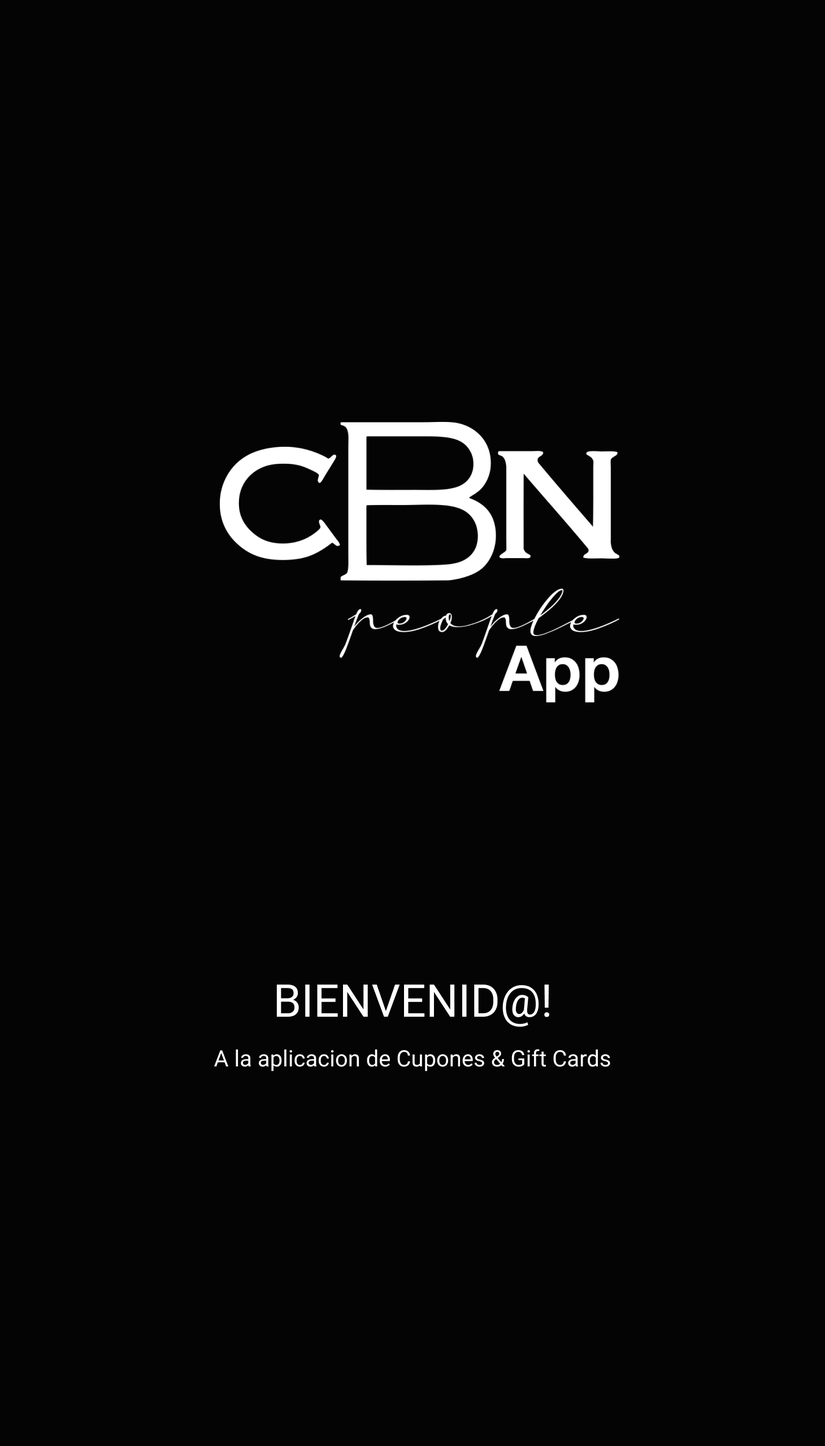
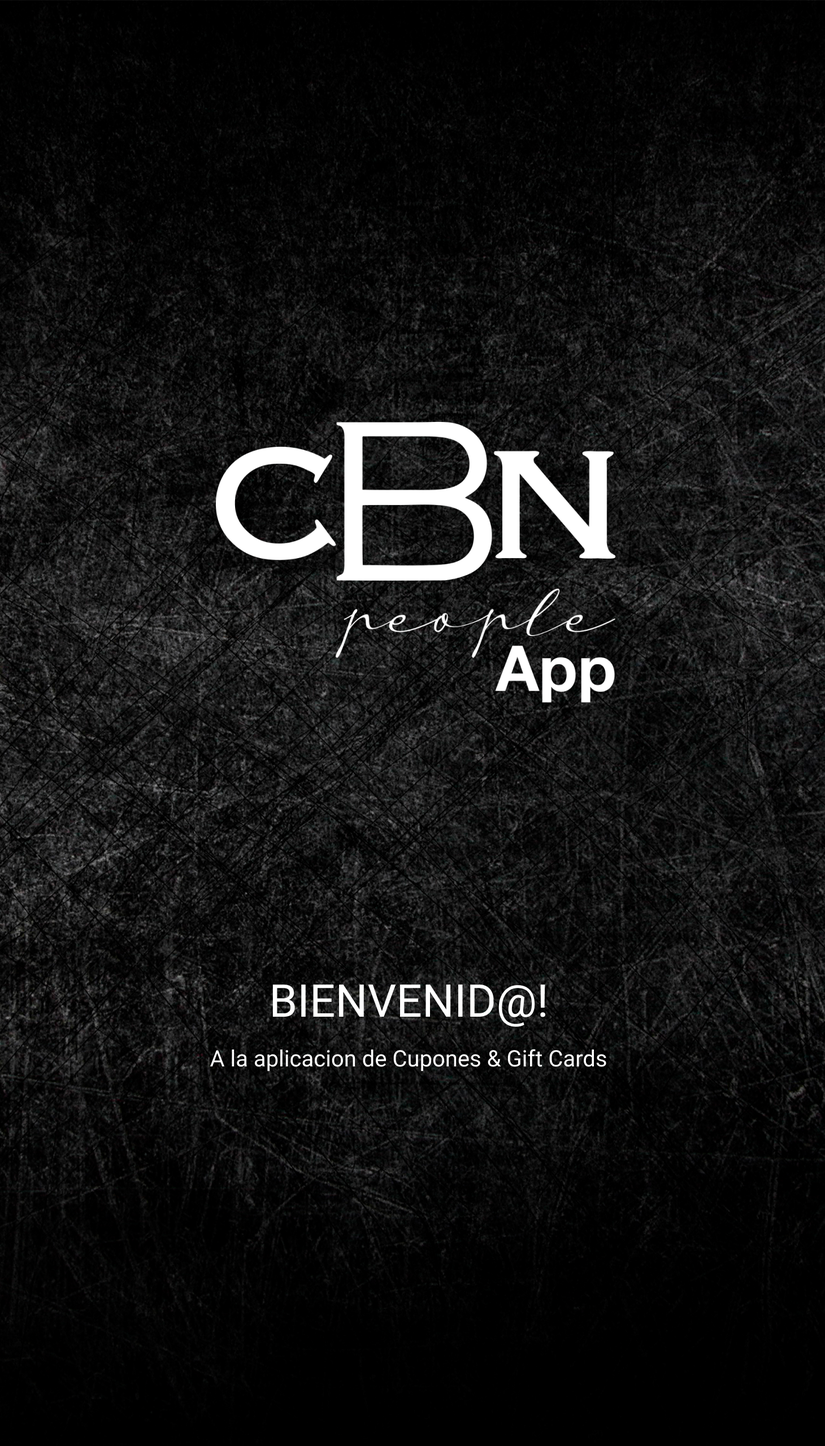
se agrego la fotografia en el registro y los fondos de pantallas

diff --git a/lib/screens/register_page2_screen.dart b/lib/screens/register_page2_screen.dart
@@ -1,6 +1,11 @@
+
+import 'package:cbn/providers/providers.dart';
 import 'package:cbn/utils/constantes.dart';
+import 'package:cbn/widgets/fondo_pantalla.dart';
 import 'package:flutter/material.dart';
 import 'package:intl/intl.dart';
+import 'package:image_picker/image_picker.dart';
+import 'package:provider/provider.dart';
 
 class RegisterPage2Screen extends StatelessWidget {
 
@@ -17,11 +22,16 @@ class RegisterPage2Screen extends StatelessWidget {
         appBar: AppBar(),
         body: SafeArea(
           child: SingleChildScrollView(
-            child: Column(
+            child: Stack(
               children: [
-                _Info(),
-                SizedBox(height: 40,),
-                _Formulario(formState: formState,),
+                FondoPantalla(img: 'fondoblanco.png'),
+                Column(
+                  children: [
+                    _Info(),
+                    SizedBox(height: 40,),
+                    _Formulario(formState: formState,),
+                  ],
+                ),
               ],
             ),
           ),
@@ -56,12 +66,15 @@ class _Formulario extends StatelessWidget {
 
   @override
   Widget build(BuildContext context) {
+    
     return Padding(
       padding: const EdgeInsets.symmetric(horizontal: 20),
       child: Form(
         key: this.formState,
         child: Column(
           children: [
+            estilos.inputLabel(label: 'Foto de perfil'),
+            _FotoPerfil(),
             estilos.inputLabel(label: 'Fecha de nacimiento', obligatorio: true),
             _FechaNacimiento(),
             estilos.inputLabel(label: 'Telefono / Celular', obligatorio: true),
@@ -87,6 +100,55 @@ class _Formulario extends StatelessWidget {
             )
           ],
         ),
+      ),
+    );
+  }
+}
+
+class _FotoPerfil extends StatelessWidget {
+
+  @override
+  Widget build(BuildContext context) {
+    final size = MediaQuery.of(context).size;
+    final provider = Provider.of<RegistroProvider>(context);
+    return Container(
+      width: 150,
+      height: 150,
+      child: Stack(
+        children: [
+          (provider.foto == null)
+            ? Center(child: Image.asset('assets/icons/logoNegroCBN.png', width: size.width*0.5,))
+            : Center(
+              child: ClipRRect(
+                borderRadius: BorderRadius.circular(200),
+                child: Image.file(provider.foto!,
+                  fit: BoxFit.cover,
+                  width: size.width*0.5,
+                  height: size.width*0.5,
+                ),
+              ),
+            )
+          ,
+          Positioned(
+            bottom: 0,
+            right: 0,
+            child: Center(
+              child: IconButton(
+                icon: Icon(Icons.camera_alt, color: Colors.black, size: size.width*0.13,),
+                onPressed: () async {
+                  final ImagePicker _picker = new ImagePicker();
+                  final XFile? photo = await _picker.pickImage(source: ImageSource.camera);
+                  if (photo == null) {
+                    print('No selecciono nada');
+                    return;
+                  }
+                  print('tenemos imagen ${photo.path}');
+                  provider.updateSelectedFoto(photo.path);
+                },
+              ),
+            ),
+          )
+        ],
       ),
     );
   }

diff --git a/lib/screens/recover_password_screen.dart b/lib/screens/recover_password_screen.dart
@@ -17,15 +17,21 @@ class RecoverPassScreen extends StatelessWidget {
       child: Scaffold(
         appBar: AppBar(),
         body: SafeArea(
-          child: SingleChildScrollView(
-            child: Column(
-              children: [
-                TopLogoWidget(),
-                SizedBox(height: 20,),
-                Text('CONTRASEÑA OLVIDADA', style: TextStyle( fontWeight: FontWeight.bold ),),
-                _Formulario(formState: formState)
-              ],
-            ),
+          child: Stack(
+            children: [
+              FondoPantalla(img: 'fondoblanco.png'),
+              SingleChildScrollView(
+                child: Column(
+                  children: [
+                    TopLogoWidget(),
+                    SizedBox(height: 20,),
+                    Text('CONTRASEÑA OLVIDADA', style: TextStyle( fontWeight: FontWeight.bold ),),
+                    _Formulario(formState: formState)
+                  ],
+                ),
+              ),
+
+            ],
           ),
         ),
       ),

diff --git a/lib/screens/register_validation_screen.dart b/lib/screens/register_validation_screen.dart
@@ -1,4 +1,5 @@
 import 'package:cbn/utils/constantes.dart';
+import 'package:cbn/widgets/fondo_pantalla.dart';
 import 'package:cbn/widgets/top_logo.dart';
 import 'package:flutter/material.dart';
 
@@ -14,15 +15,22 @@ class RegisterValidationScreen extends StatelessWidget {
       },
       child: Scaffold(
         appBar: AppBar(),
-        body: SingleChildScrollView(
-          child: Column(
+        body: SafeArea(
+          child: Stack(
             children: [
-              TopLogoWidget(),
-              SizedBox(height: 50,),
-              _Formulario(formState: formState)
+              FondoPantalla(img: 'fondoblanco.png'),
+              SingleChildScrollView(
+                child: Column(
+                  children: [
+                    TopLogoWidget(),
+                    SizedBox(height: 50,),
+                    _Formulario(formState: formState),
+                  ],
+                ),
+              )
             ],
           ),
-        ),   
+        ),
       ),
     );
   }

diff --git a/lib/screens/login_screen.dart b/lib/screens/login_screen.dart
@@ -18,14 +18,19 @@ class LoginScreen extends StatelessWidget {
       child: Scaffold(
         appBar: AppBar(),
         body: SafeArea(
-          child: SingleChildScrollView(
-            child: Column(
-              children: [
-                TopLogoWidget(),
-                SizedBox(height: 50,),
-                _Formulario(formState:formState)
-              ],
-            ),
+          child: Stack(
+            children: [
+              FondoPantalla(img: 'fondoblanco.png'),
+              SingleChildScrollView(
+                child: Column(
+                  children: [
+                    TopLogoWidget(),
+                    SizedBox(height: 50,),
+                    _Formulario(formState:formState)
+                  ],
+                ),
+              ),
+            ],
           ),
         ),
       ),

diff --git a/lib/screens/register_page1_screen.dart b/lib/screens/register_page1_screen.dart
@@ -18,16 +18,22 @@ class RegisterPage1Screen extends StatelessWidget {
       child: Scaffold(
         appBar: AppBar(),
         body: SafeArea(
-          child: SingleChildScrollView(
-            child: Column(
-              children: [
-                TopLogoWidget(),
-                _Formulario(formState: formState,),
-              ],
-            ),
+          child: Stack(
+            children: [
+              FondoPantalla(img: 'fondoblanco.png'),
+              SingleChildScrollView(
+                child: Column(
+                  children: [
+                    TopLogoWidget(),
+                    _Formulario(formState: formState,),
+                  ],
+                ),
+              ),
+
+            ],
           ),
         ),
-      )
+      ),
     );
   }
 }

diff --git a/lib/main.dart b/lib/main.dart
@@ -1,4 +1,5 @@
 
+import 'package:cbn/providers/registro_provider.dart';
 import 'package:cbn/utils/preferencias_usuario.dart';
 import 'package:flutter/material.dart';
 import 'package:flutter/services.dart';
@@ -32,6 +33,7 @@ class MyApp extends StatelessWidget {
       providers: [
         ChangeNotifierProvider(create: ( _ ) => LoginProvider(),),
         ChangeNotifierProvider(create: ( _ ) => GiftCardProvider(),),
+        ChangeNotifierProvider(create: ( _ ) => RegistroProvider(),),
       ],
       child: MaterialApp(
         debugShowCheckedModeBanner: false,

diff --git a/lib/widgets/fondo_pantalla.dart b/lib/widgets/fondo_pantalla.dart
@@ -10,10 +10,11 @@ class FondoPantalla extends StatelessWidget {
   Widget build(BuildContext context) {
     final size = MediaQuery.of(context).size;
     return Image(
-      image: AssetImage('assets/fondos/$img'),
-      fit: BoxFit.cover,
-      width: size.width,
-      height: size.height,
-    );
+        image: AssetImage('assets/fondos/$img'),
+        fit: BoxFit.cover,
+        width: size.width,
+        height: size.height,
+        
+      );
   }
 }

diff --git a/lib/providers/registro_provider.dart b/lib/providers/registro_provider.dart
@@ -1,0 +1,13 @@
+import 'dart:io';
+
+import 'package:flutter/material.dart';
+
+class RegistroProvider extends ChangeNotifier{
+
+  File? foto;
+
+  void updateSelectedFoto(String path){
+    this.foto = File.fromUri(Uri(path: path));
+    notifyListeners();
+  }
+}

diff --git a/lib/providers/providers.dart b/lib/providers/providers.dart
@@ -1,4 +1,8 @@
 export 'package:cbn/providers/login_provider.dart';
 export 'package:cbn/providers/giftcard_provider.dart';
+export 'package:cbn/providers/registro_provider.dart';
+
+
+
 
 
